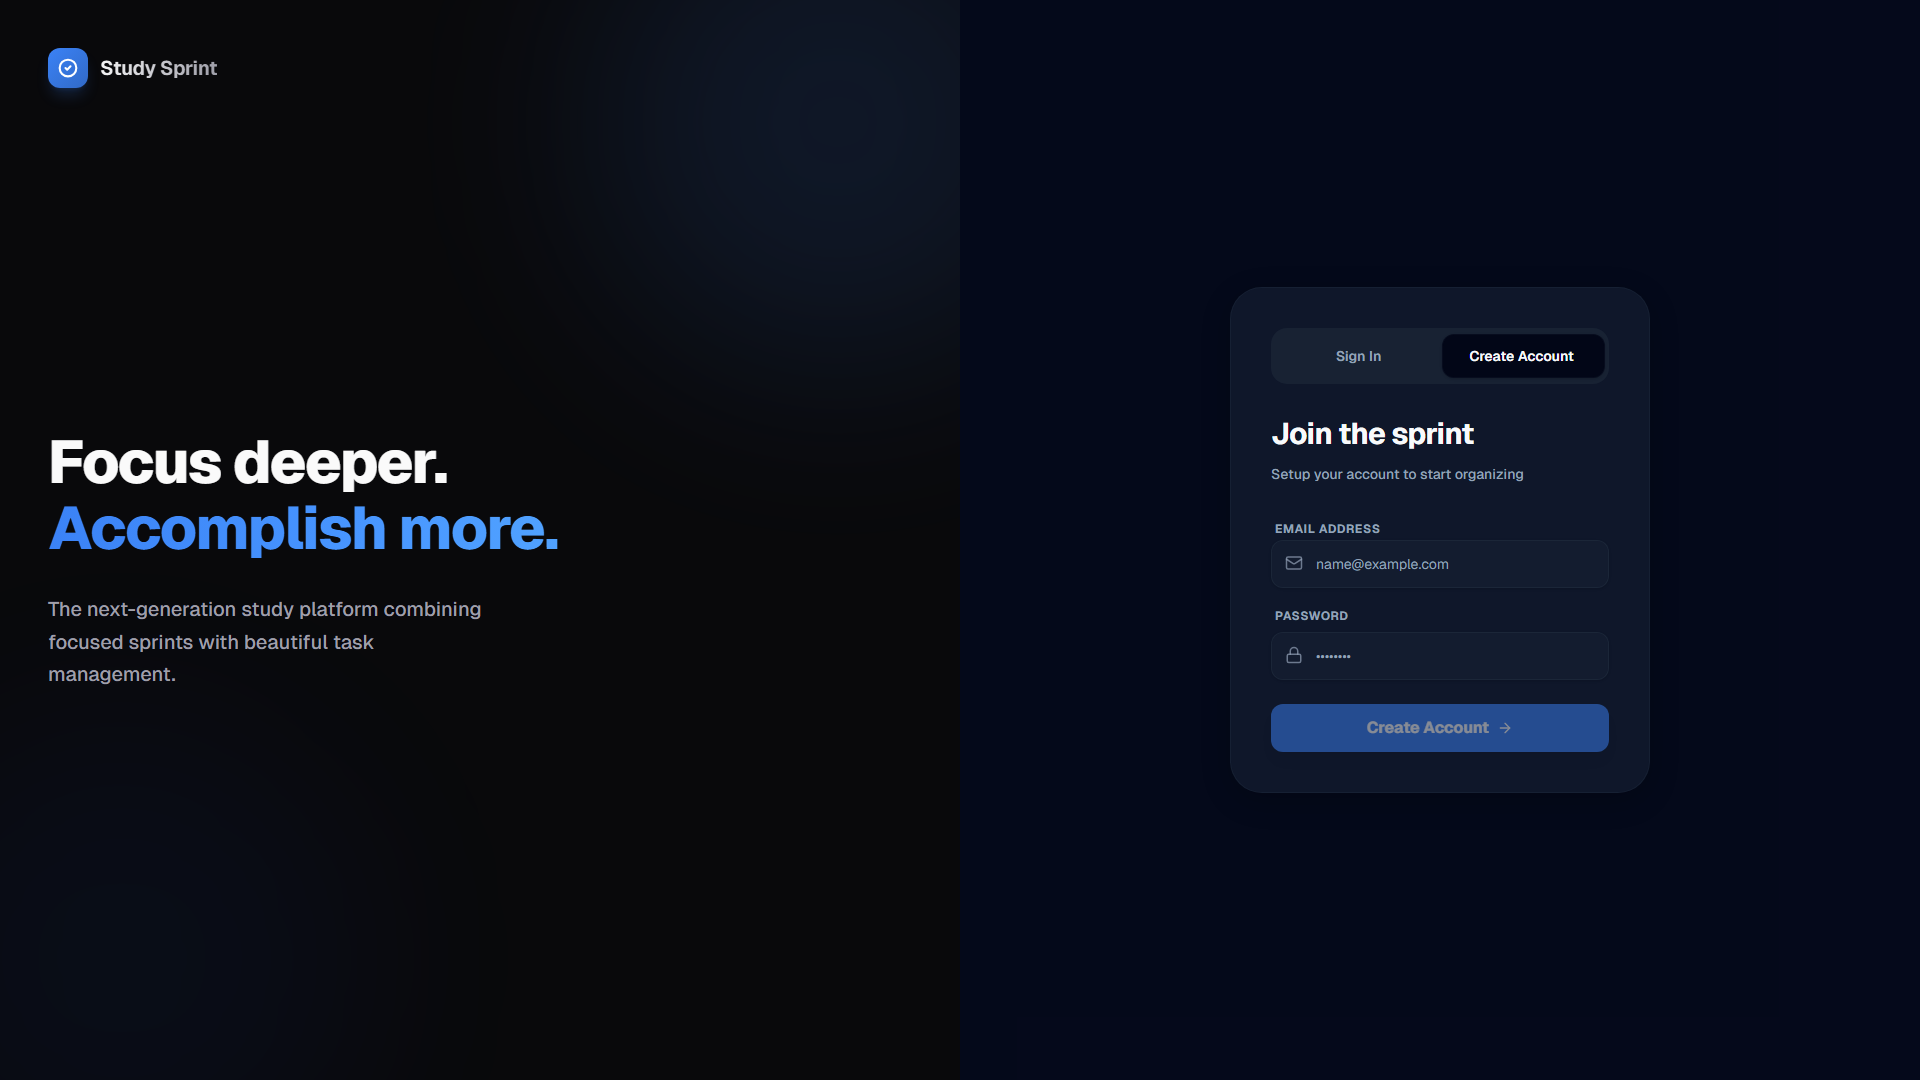
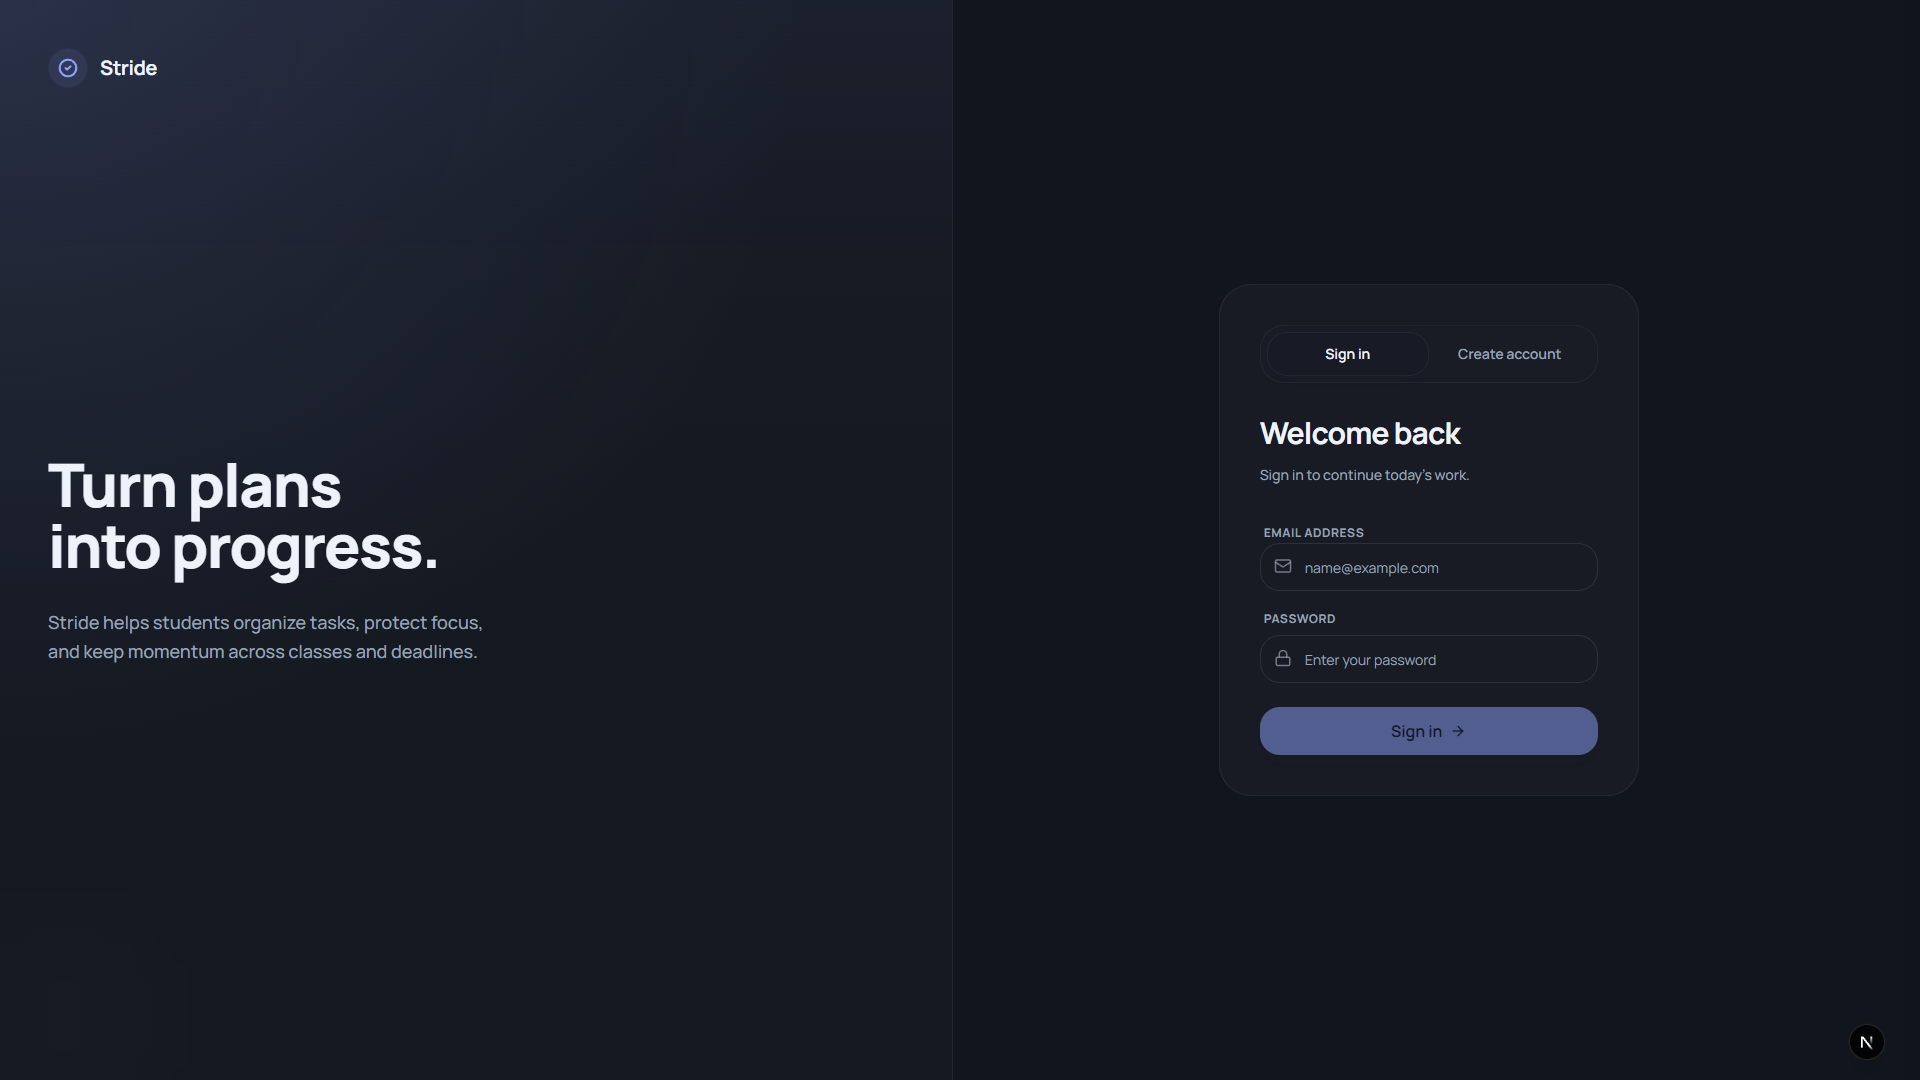
docs: refresh README branding, links, and screenshot gallery

diff --git a/README.md b/README.md
@@ -2,6 +2,15 @@
 
 Stride helps students turn plans into progress.
 
+[![Live Demo](https://img.shields.io/badge/Live%20Demo-Vercel-black?style=for-the-badge&logo=vercel)](https://todo-supabase-t3.vercel.app)
+[![LinkedIn](https://img.shields.io/badge/LinkedIn-Profile-blue?style=for-the-badge&logo=linkedin)](https://www.linkedin.com/in/rudhresh-r/)
+
+## The Vision
+
+Students usually do not struggle with writing tasks down. They struggle with turning plans into consistent execution.
+
+Stride is built around that gap. It combines task management, calendar planning, focus sessions, and lightweight accountability into a single student productivity workflow that is designed to help captured work become scheduled, focused, and finished.
+
 Stride is an execution-first academic planner built on Next.js and Supabase. The current product combines smart task views, project workspaces, a weekly planner, focus sessions, lightweight community progress, and a premium task-first shell.
 
 ## Current Product Shape
@@ -47,6 +56,16 @@ Stride is an execution-first academic planner built on Next.js and Supabase. The
 - Focus timer with persisted sessions
 - Community leaderboard powered by `weekly_leaderboard`
 - Theme system with `light`, `dark`, and `midnight`
+
+## Visual Gallery
+
+| Authentication | Home |
+| :---: | :---: |
+| ![Authentication](screenshots/auth.png) | ![Home](screenshots/dashboard.png) |
+
+| Tasks | Calendar |
+| :---: | :---: |
+| ![Tasks](screenshots/tasks.png) | ![Calendar](screenshots/planner.png) |
 
 ## Stack
 
